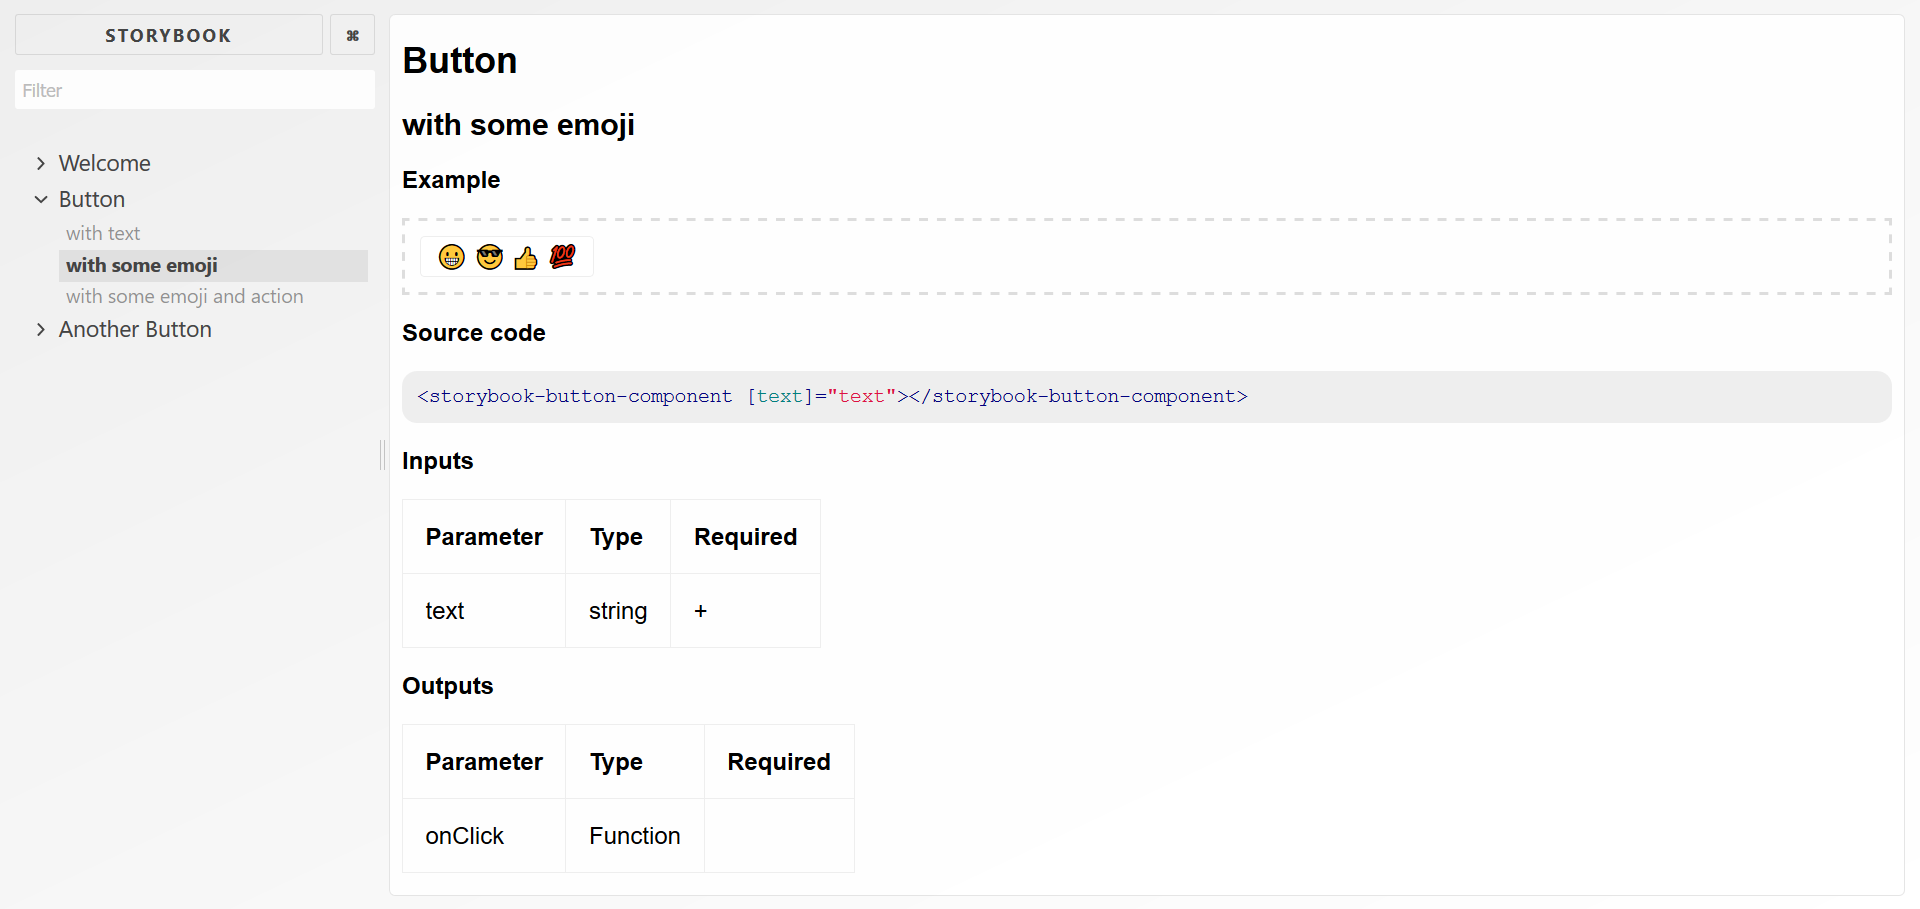
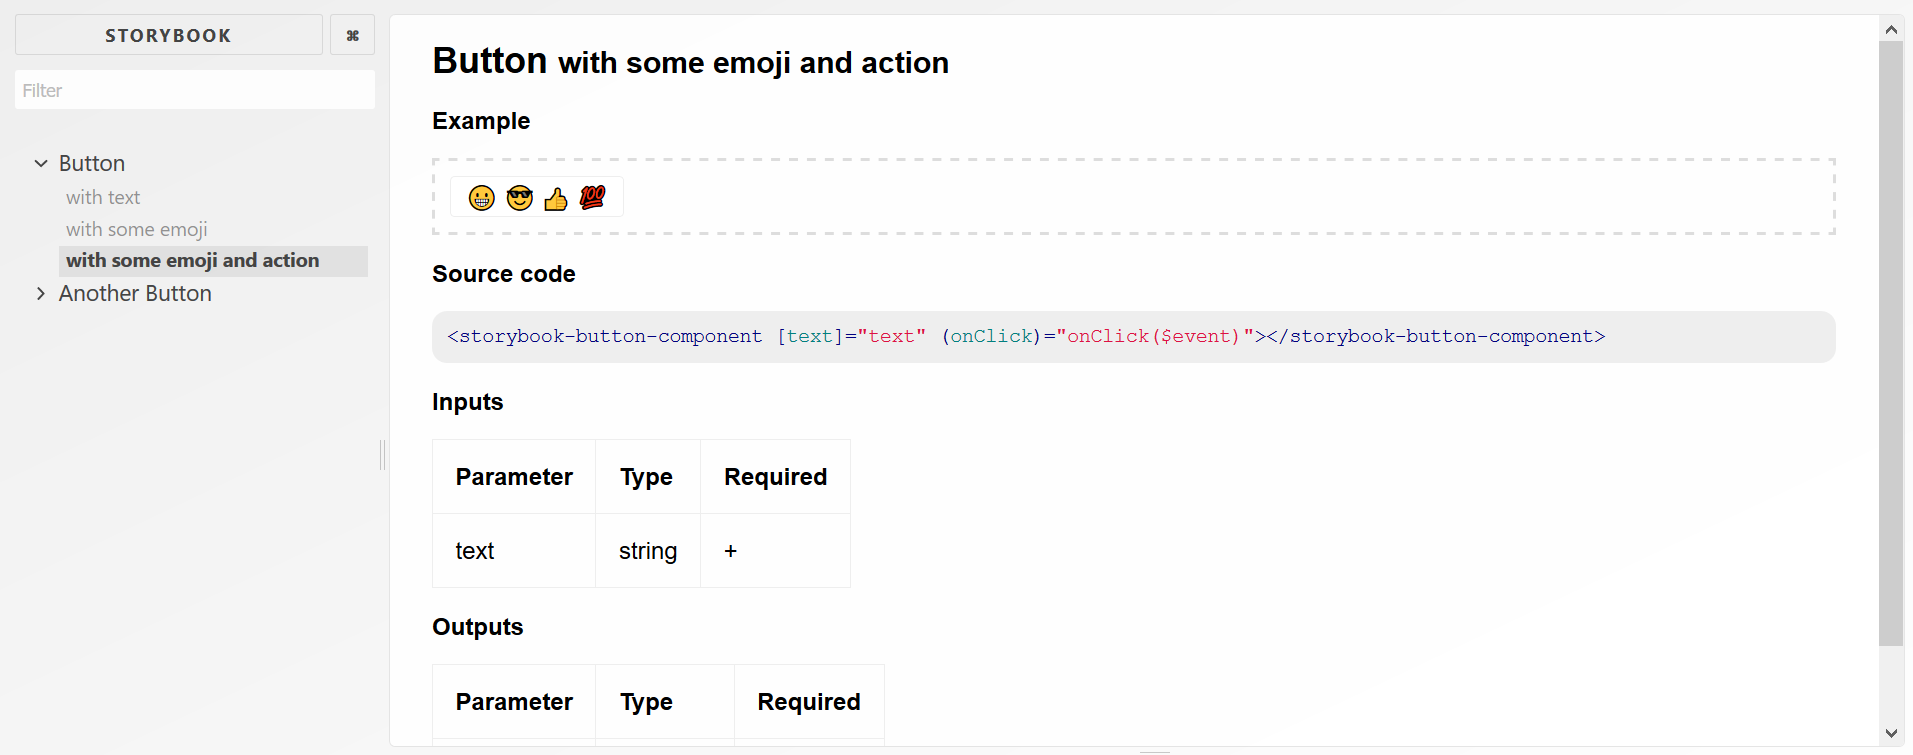
Make default styles and add md wrapper

diff --git a/index.js b/index.js
@@ -1,11 +1,12 @@
 import { makeDecorator } from "@storybook/addons";
 import marked from "marked";
 import hljs from "highlight.js";
-import "highlight.js/styles/github.css";
+import { storyStyles } from "./styles.js";
+export * from "./styles.js";
 
 const defaults = {
   markdown: "",
-  customStyles: ""
+  customStyles: storyStyles
 };
 
 export const withAnyInfo = makeDecorator({
@@ -20,9 +21,9 @@ export const withAnyInfo = makeDecorator({
 });
 
 const intro = `
-# <!-- KIND -->
+<div id="mrkd-root">
 
-## <!-- STORY -->
+# <!-- KIND --> <small><!-- STORY --></small>
 
 ### Example
 
@@ -36,17 +37,22 @@ const intro = `
 <!-- SOURCE -->
 \`\`\`
 
+<!-- MD -->
+
+<!-- STYLES -->
+
+</div>
 `;
 
 function addAnyInfo(storyFn, context, infoOptions) {
   let component = storyFn(context);
+  const storyTemplate = component.template;
 
-  const markdownTemplate =
-    intro
-      .replace("<!-- KIND -->", context.kind)
-      .replace("<!-- STORY -->", context.story)
-      .replace("<!-- SOURCE -->", component.template) +
-    infoOptions.markdown;
+  const markdownTemplate = intro
+    .replace("<!-- KIND -->", context.kind)
+    .replace("<!-- STORY -->", context.story)
+    .replace("<!-- SOURCE -->", storyTemplate)
+    .replace("<!-- MD -->", infoOptions.markdown);
 
   component.template = renderMarkdown(markdownTemplate, {
     headerPrefix: "mrkd-",
@@ -54,9 +60,10 @@ function addAnyInfo(storyFn, context, infoOptions) {
       const result = hljs.highlight(lang || "html", code, true);
       return result.value;
     }
-  }).replace("<!-- TEMPLATE -->", component.template);
+  })
+    .replace("<!-- TEMPLATE -->", storyTemplate)
+    .replace("<!-- STYLES -->", `<style>${infoOptions.customStyles}</style>`);
 
-  component.template += `<style>${infoOptions.customStyles}</style>`;
   return component;
 }
 

diff --git a/styles-hl-github.js b/styles-hl-github.js
@@ -1,0 +1,101 @@
+export const styles = `
+/*
+
+github.com style (c) Vasily Polovnyov <vast@whiteants.net>
+
+*/
+
+.hljs {
+  display: block;
+  overflow-x: auto;
+  padding: 0.5em;
+  color: #333;
+  background: #f8f8f8;
+}
+
+.hljs-comment,
+.hljs-quote {
+  color: #998;
+  font-style: italic;
+}
+
+.hljs-keyword,
+.hljs-selector-tag,
+.hljs-subst {
+  color: #333;
+  font-weight: bold;
+}
+
+.hljs-number,
+.hljs-literal,
+.hljs-variable,
+.hljs-template-variable,
+.hljs-tag .hljs-attr {
+  color: #008080;
+}
+
+.hljs-string,
+.hljs-doctag {
+  color: #d14;
+}
+
+.hljs-title,
+.hljs-section,
+.hljs-selector-id {
+  color: #900;
+  font-weight: bold;
+}
+
+.hljs-subst {
+  font-weight: normal;
+}
+
+.hljs-type,
+.hljs-class .hljs-title {
+  color: #458;
+  font-weight: bold;
+}
+
+.hljs-tag,
+.hljs-name,
+.hljs-attribute {
+  color: #000080;
+  font-weight: normal;
+}
+
+.hljs-regexp,
+.hljs-link {
+  color: #009926;
+}
+
+.hljs-symbol,
+.hljs-bullet {
+  color: #990073;
+}
+
+.hljs-built_in,
+.hljs-builtin-name {
+  color: #0086b3;
+}
+
+.hljs-meta {
+  color: #999;
+  font-weight: bold;
+}
+
+.hljs-deletion {
+  background: #fdd;
+}
+
+.hljs-addition {
+  background: #dfd;
+}
+
+.hljs-emphasis {
+  font-style: italic;
+}
+
+.hljs-strong {
+  font-weight: bold;
+}
+`;

diff --git a/styles.js b/styles.js
@@ -1,0 +1,34 @@
+import { styles } from "./styles-hl-github";
+
+export const storyStyles = `
+${styles}
+
+#mrkd-root { padding: 0 20px; }
+
+h1[id|="mrkd"] { font-size: 1.5em; }
+h2[id|="mrkd"] { font-size: 1.25em; }
+h3[id|="mrkd"] { font-size: 1em; }
+[id|="mrkd"] {
+    font-family: sans-serif;
+}
+
+#mrkd-root > .with-any-info-example {
+    border: 2px dashed #ddd;
+}
+
+pre {
+    padding: 10px;
+    background: #eee;
+    border-radius: 10px;
+}
+
+#mrkd-root > table th,
+#mrkd-root > table td,
+#mrkd-root > table {
+    border-collapse: collapse;
+    font-family: sans-serif;
+    border: 1px solid #eee;
+    text-align: left;
+    padding: 15px;
+}
+`;

diff --git a/README.md b/README.md
@@ -6,7 +6,7 @@ This is an addon to render your Stories as full-featured markdown documentation 
 
 Addon was tested with version **4.0.0** of a storybook.
 
-![screenshot.png](https://github.com/apastuhov/storybook-any-info/blob/master/screenshot.png)
+![screenshot.png](https://raw.githubusercontent.com/apastuhov/storybook-any-info/master/screenshot.png)
 
 ## TOC
 
@@ -87,39 +87,7 @@ storiesOf("Button", module)
 
 ### CSS styling
 
-Only `highlight.js` CSS is integrated inside of that package to support code styling.
-So you can setup any custom CSS in your stories. I recommend to define reusable custom styles in a `.storybook` folder and then import them. Here is an example from a screenshot:
-
-```ts
-export const customStyles = `
-h1[id|="mrkd"] { font-size: 1.5em; }
-h2[id|="mrkd"] { font-size: 1.25em; }
-h3[id|="mrkd"] { font-size: 1em; }
-[id|="mrkd"] {
-    font-family: sans-serif;
-}
-
-div.with-any-info-example {
-    border: 2px dashed #ddd;
-}
-
-pre {
-    padding: 10px;
-    background: #eee;
-    border-radius: 10px;
-}
-
-div.pretable + table th,
-div.pretable + table td,
-div.pretable + table {
-    border-collapse: collapse;
-    font-family: sans-serif;
-    border: 1px solid #eee;
-    text-align: left;
-    padding: 15px;
-}
-`;
-```
+You can setup your own styling, or use predefined one from exported variable `storyStyles`.
 
 ### Support Markdown docs for Angular
 
